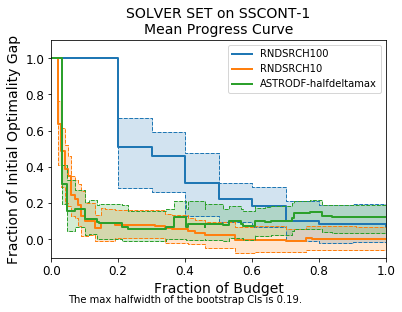
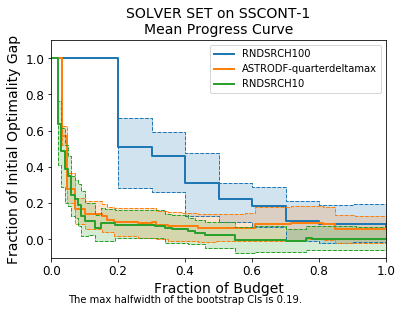
added delta_start

Changed region(s): [[0.1194, 0.1731, 0.9851, 0.8365], [0.5075, 0.1442, 0.9552, 0.3173]]

diff --git a/simopt/solvers/astrodf.py b/simopt/solvers/astrodf.py
@@ -413,7 +413,7 @@ class ASTRODF(Solver):
         expended_budget = 0
         delta_max = self.factors["delta_max"]
         gamma_0 = self.factors["gamma_0"]
-        delta_start = delta_max * 0.5
+        delta_start = delta_max * 0.25
         delta_candidate = [gamma_0 * delta_start, delta_start, delta_start / gamma_0]
 
         # default values
